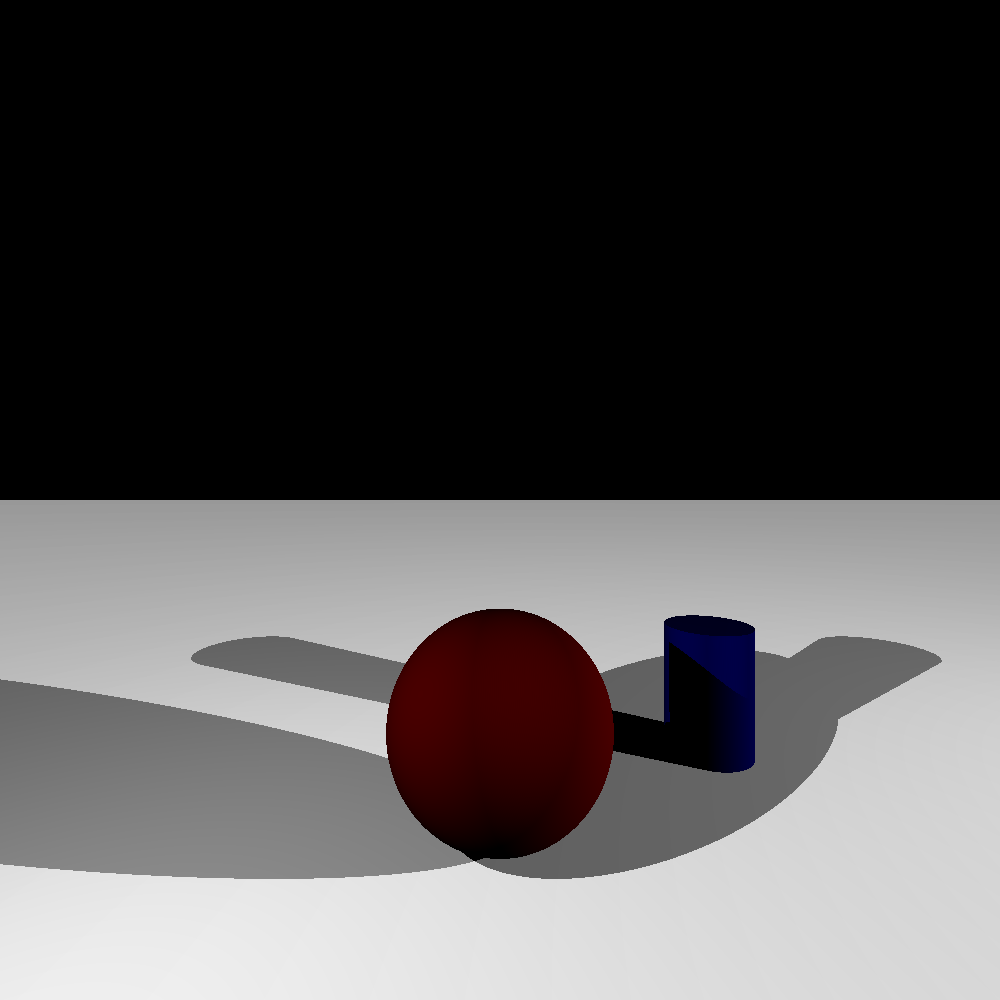
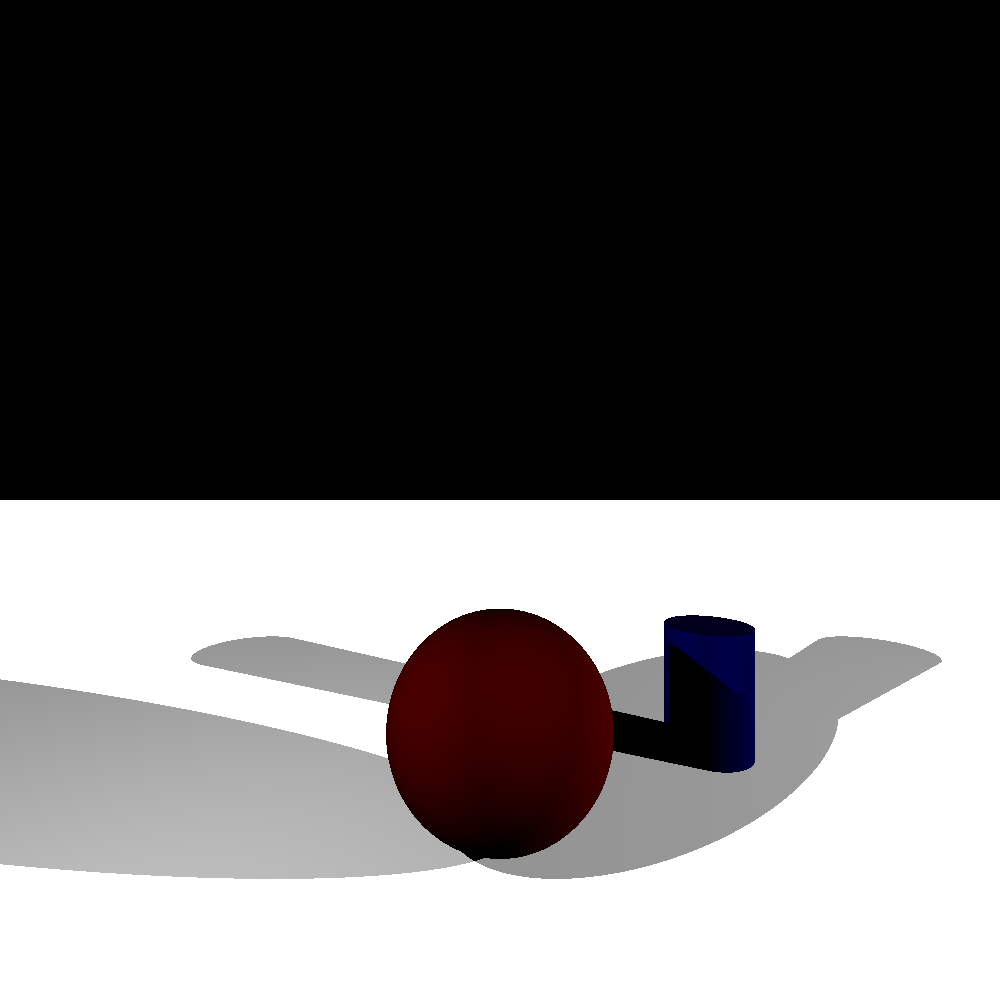
cleanup

diff --git a/src/shading/Diffuse.java b/src/shading/Diffuse.java
@@ -21,6 +21,16 @@ public class Diffuse {
 		this.cr = color;
 	}
 
+	
+	/**
+	 * @param ray
+	 * @param lights
+	 * @param shapes
+	 * @param p
+	 * @param normal
+	 * @param hitShape
+	 * @return the color of the given point, depending on the lights and shapes in the scene, and the surface normal of the shape to be shaded
+	 */
 	public Color getColor(Ray ray, List<PointLight> lights, List<Shape> shapes, Point p, Vector normal, Shape hitShape) {
 		Color color = Color.BLACK;
 		for (PointLight pl : lights) {
@@ -32,25 +42,8 @@ public class Diffuse {
 			p = p.add(direction.scale(EPSILON));
 			Ray shadow = new Ray(p, direction);
 			if (shapes.size() == 1) {
-				double cos = normal.dot(direction)
-						/ (normal.length() * direction.length());
-				double viewingCos = normal.dot(ray.direction)
-						/ (normal.length() * ray.direction.length());
-				if (cos < 0 & viewingCos > 0) {
-					cos = 0;
-				}
-				int r = (int) (cr.getRed() * kd * cos / Math.PI + cr.getRed()
-						* ka);
-				int g = (int) (cr.getGreen() * kd * cos / Math.PI + cr
-						.getGreen() * ka);
-				int b = (int) (cr.getBlue() * kd * cos / Math.PI + cr.getBlue()
-						* ka);
-				r = trim(r);
-				g = trim(g);
-				b = trim(b);
-				color = addColor(color, new Color(r, g, b));
+				color = getShading(ray, normal, color, direction);
 			} else {
-				
 				Double min = distanceToLight;
 				for (Shape other : shapes) {
 					Double intersection = other.intersect(shadow);
@@ -64,62 +57,28 @@ public class Diffuse {
 				}
 			}
 			if(!shaded | hitShape.equals(shadowShape)) {
-				double cos = normal.dot(direction) / (normal.length() * direction.length());
-				double viewingCos = normal.dot(ray.direction) / (normal.length() * ray.direction.length());
-				if (cos < 0 & viewingCos > 0) {
-					cos = 0;
-				}
-				int r = (int) (cr.getRed() * kd * cos / Math.PI + cr
-						.getRed() * ka);
-				int g = (int) (cr.getGreen() * kd * cos / Math.PI + cr
-						.getGreen() * ka);
-				int b = (int) (cr.getBlue() * kd * cos / Math.PI + cr
-						.getBlue() * ka);
-				r = trim(r);
-				g = trim(g);
-				b = trim(b);
-				color = addColor(color, new Color(r, g, b));
+				color = getShading(ray, normal, color, direction);
 			}
-				
-//					if (Math.abs(other.intersect(shadow) + 1) < EPSILON	| !other.equals(hitShape)) {
-//						double cos = normal.dot(direction) / (normal.length() * direction.length());
-//						double viewingCos = normal.dot(ray.direction) / (normal.length() * ray.direction.length());
-//						if (cos < 0 & viewingCos > 0) {
-//							cos = 0;
-//						}
-//						int r = (int) (cr.getRed() * kd * cos / Math.PI + cr
-//								.getRed() * ka);
-//						int g = (int) (cr.getGreen() * kd * cos / Math.PI + cr
-//								.getGreen() * ka);
-//						int b = (int) (cr.getBlue() * kd * cos / Math.PI + cr
-//								.getBlue() * ka);
-//						r = trim(r);
-//						g = trim(g);
-//						b = trim(b);
-//						color = addColor(color, new Color(r, g, b));
-//					} else {
-//						color = Color.black;
-//					}
-//				}
-//			}
-			// double cos = normal.dot(direction) / (normal.length() *
-			// direction.length());
-			// double viewingCos = normal.dot(ray.direction) / (normal.length()
-			// * ray.direction.length());
-			// if (cos < 0 & viewingCos > 0) {
-			// cos = 0;
-			// }
-			// int r = (int) (cr.getRed() * kd * cos / Math.PI + cr.getRed() *
-			// ka);
-			// int g = (int) (cr.getGreen() * kd * cos / Math.PI +
-			// cr.getGreen()* ka);
-			// int b = (int) (cr.getBlue() * kd * cos / Math.PI + cr.getBlue()*
-			// ka);
-			// r = trim(r);
-			// g = trim(g);
-			// b = trim(b);
-			// color = addColor(color, new Color(r,g,b));
 		}
+		return color;
+	}
+
+	private Color getShading(Ray ray, Vector normal, Color color, Vector toTheLight) {
+		double cos = normal.dot(toTheLight) / (normal.length() * toTheLight.length());
+		double viewingCos = normal.dot(ray.direction) / (normal.length() * ray.direction.length());
+		if (cos < 0 & viewingCos > 0) {
+			cos = 0;
+		}
+		int r = (int) (cr.getRed() * kd * cos / Math.PI + cr.getRed()
+				* ka);
+		int g = (int) (cr.getGreen() * kd * cos / Math.PI + cr
+				.getGreen() * ka);
+		int b = (int) (cr.getBlue() * kd * cos / Math.PI + cr.getBlue()
+				* ka);
+		r = trim(r);
+		g = trim(g);
+		b = trim(b);
+		color = addColor(color, new Color(r, g, b));
 		return color;
 	}
 

diff --git a/src/main/Renderer.java b/src/main/Renderer.java
@@ -93,7 +93,7 @@ public class Renderer {
 		// initialize the scene
 		Diffuse d1 = new Diffuse(0.9, 0.0, new Color(255, 0, 0));
 		Diffuse d2 = new Diffuse(0.9, 0.0, Color.BLUE);
-		Diffuse d3 = new Diffuse(0.9, 0.3, Color.white);
+		Diffuse d3 = new Diffuse(0.9, 0.5, Color.white);
 		Transformation id = Transformation.IDENTITY;
 		Transformation t1 = Transformation.createTranslation(0, -1, 1);
 		Transformation tc = Transformation.createTranslation(0, 0, 10).append(
@@ -142,24 +142,8 @@ public class Renderer {
 
 				if (hit) {
 					Point hitPoint = ray.origin.add(ray.direction.scale(min));
-//					hitPoint = hitShape.getIntersection(ray);
 					color = hitShape.getColor(ray, lights, shapes, hitPoint);
-					// for (PointLight pl : lights) {
-					// color = addColor(color, hitShape.getColor(ray, pl,
-					// hitPoint));
-					// for (Shape other : shapes) {
-					// for (PointLight shadowLight : lights) {
-					// Ray shadowRay = new Ray(hitPoint,
-					// shadowLight.getLocation().subtract(hitPoint));
-					// if (!other.intersect(shadowRay).equals(-1.0) &
-					// !other.equals(hitShape)) {
-					// color = Color.BLACK;
-					// }
-					// }
-					// }
-					// }
 					panel.set(x, y, 255, color.getRed(), color.getGreen(), color.getBlue());
-					// panel.set(x,y,255,255,0,0);
 				} else {
 					panel.set(x, y, 255, 0, 0, 0);
 				}

diff --git a/src/shape/Plane.java b/src/shape/Plane.java
@@ -28,12 +28,9 @@ public class Plane implements Shape {
 	@Override
 	public Double intersect(Ray ray) {
 		Ray transformed = transformation.transformInverse(ray);
-		
-		Vector o = transformed.origin.toVector3D();
-		
 		Double t = (point.toVector3D().subtract(transformed.origin.toVector3D()).dot(normal))/(transformed.direction.dot(normal));
-		System.out.println(t);
-		if(t >= (0 + EPSILON)) {
+		
+		if(t >=  EPSILON) {
 			return t;
 		}
 		return -1.0;
@@ -46,16 +43,4 @@ public class Plane implements Shape {
 		
 		return this.shading.getColor(ray, lights,shapes, p, newNormal, this);
 	}
-
-//	@Override
-//	public Point getIntersection(Ray ray) {
-//		Ray transformed = transformation.transformInverse(ray);
-//		
-//		Vector o = transformed.origin.toVector3D();
-//		
-//		Double t = (point.toVector3D().subtract(transformed.origin.toVector3D()).dot(normal))/(transformed.direction.dot(normal));
-//		System.out.println(t);
-//		return ray.origin.add(ray.direction.scale(t));
-//	}
-
 }

diff --git a/src/shape/Sphere.java b/src/shape/Sphere.java
@@ -42,7 +42,7 @@ public class Sphere implements Shape {
 					"the given radius cannot be smaller than zero!");
 		this.transformation = transformation;
 		this.radius = radius;
-		this.setColor(diffuse);
+		this.color = diffuse;
 	}
 
 	/*
@@ -78,14 +78,6 @@ public class Sphere implements Shape {
 			return t0;
 		}
 		return -1.0;	
-	}
-
-	public Diffuse getColor() {
-		return color;
-	}
-
-	public void setColor(Diffuse color) {
-		this.color = color;
 	}
 
 	@Override

diff --git a/src/shape/Triangle.java b/src/shape/Triangle.java
@@ -82,6 +82,6 @@ public class Triangle implements Shape {
 	public Color getColor(Ray ray, List<PointLight> lights, List<Shape> shapes,  Point p) {
 		Vector newNormal = transformation.inverseTransposeTransform(normal);
 		System.out.println(normal+"NORMAL");
-		return this.color.getColor(ray, lights,shapes, p, newNormal);
+		return this.color.getColor(ray, lights,shapes, p, newNormal, this);
 	}
 }

diff --git a/src/shape/Cylinder.java b/src/shape/Cylinder.java
@@ -101,10 +101,4 @@ public class Cylinder implements Shape {
 		return this.shading.getColor(ray, lights,shapes, p, normal, this);
 	}
 
-//	@Override
-//	public Point getIntersection(Ray ray) {
-//		// TODO Auto-generated method stub
-//		return null;
-//	}
-
 }
